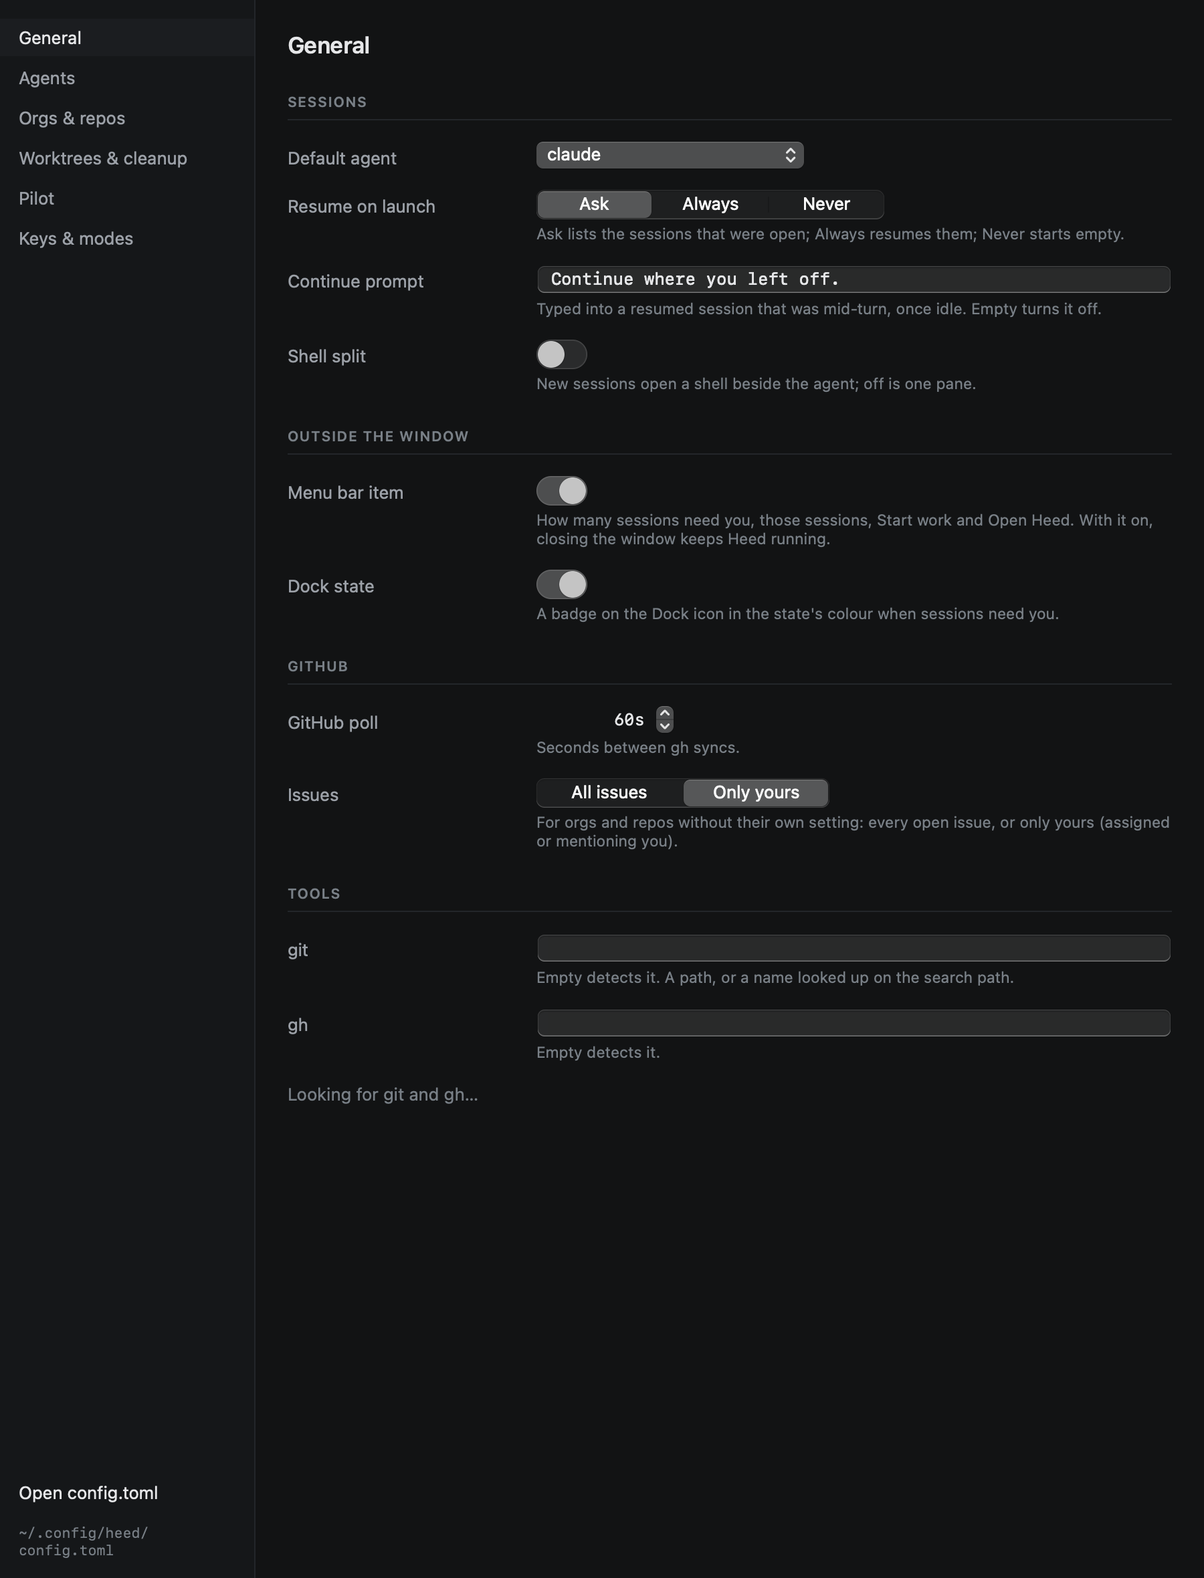
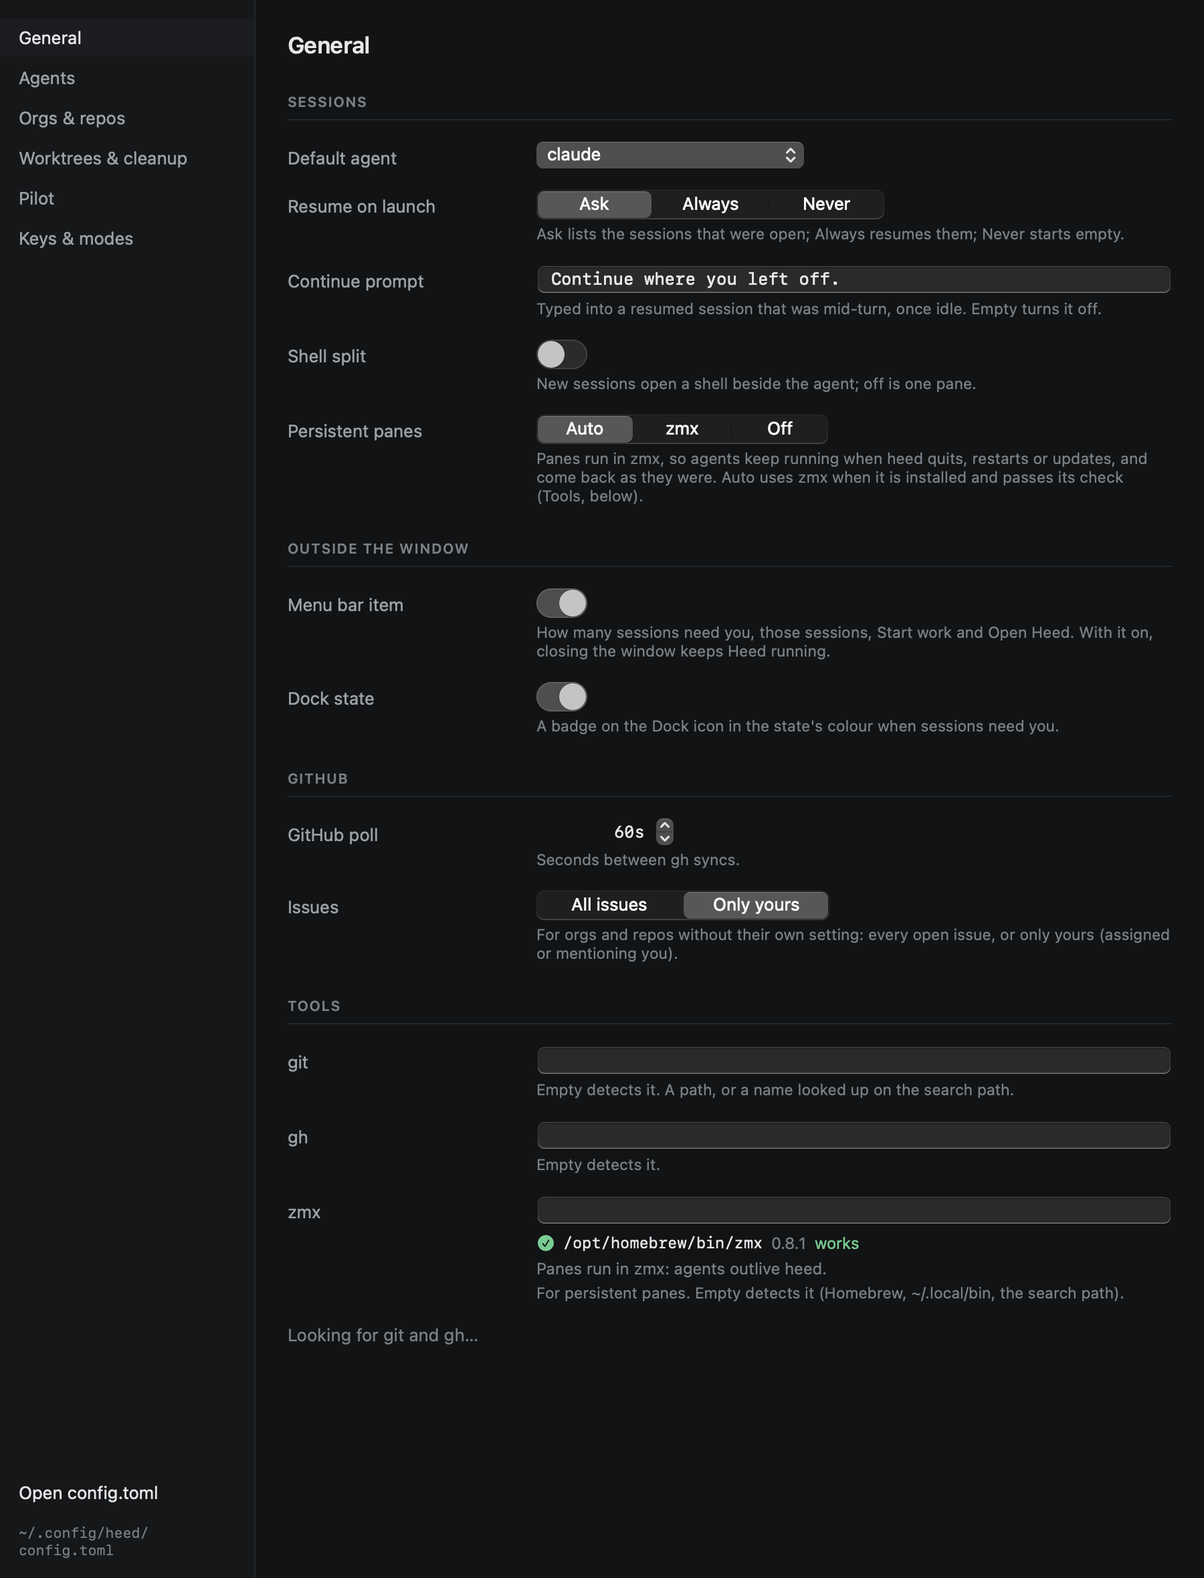
zmx is checked in Settings, and used by default when it works (#48)
**zmx check in Settings › General › Tools**, next to git and gh:
- **The path:** a new `[tools] zmx` takes a path or a name. When empty,
heed finds zmx on the search path, which includes Homebrew and
`~/.local/bin`.
- **The check:** `ZmxCheck` runs zmx the way panes use it. It runs `zmx
version`, then `zmx list --short` against heed's own socket directory,
with `ZMX_DIR` and `ZMX_NO_DETACH_KEY` set.
- **What you see:** the path, the version, and either *works* or the
failing step's first line of error. It also says whether panes run in
zmx because of it, and shows the install line when zmx is missing.

**`[sessions] persist = "auto"`, the new default:**
- `auto` uses zmx when it's installed **and** passes the check;
otherwise panes stay plain shells.
- `zmx` still insists: it uses zmx whenever it's there, and flashes the
install line when it isn't. `none` turns it off.
- `ZmxHealth.decide` maps the setting and the check to what panes do.
It's applied after each tool detection and on config changes.
- A **Persistent panes** picker (Auto / zmx / Off) is in Settings ›
General › Sessions.
- Panes already open keep going as they are; only new panes, and panes
after a restart, start in zmx.

**Docs:** the zmx page leads with install-and-it-works, then covers the
setting and the check. The config reference is regenerated, and the
General settings shot shows the check.

**Tests:**
- The decision matrix, version parsing, and the new default and its
parsing.
[…]

diff --git a/Sources/HeedCore/Sessions/Persistence.swift b/Sources/HeedCore/Sessions/Persistence.swift
@@ -2,6 +2,8 @@ import Foundation
 
 /// Whether a pane's terminal outlives heed.
 public enum PanePersistence: String, CaseIterable, Sendable, Codable {
+    /// zmx when it is installed and passes its check (`ZmxCheck`), else none: the default.
+    case auto
     /// The terminal is heed's: it ends when heed quits, and a relaunch resumes the agent from its own history.
     case none
     /// The terminal runs in a zmx session (https://zmx.sh) that heed attaches to: quitting, restarting or updating heed
@@ -11,6 +13,68 @@ public enum PanePersistence: String, CaseIterable, Sendable, Codable {
 
 /// heed's use of zmx: one zmx session per pane, named after it, in a socket directory of heed's own so they stay
 /// apart from sessions you run yourself.
+/// Whether zmx on this Mac works for heed: found, answers `zmx version`, and lists sessions in heed's socket
+/// directory. Settings shows it next to git and gh; `persist = "auto"` uses zmx only when it passed.
+public struct ZmxHealth: Equatable, Sendable {
+    public var path: String?
+    public var version: String?
+    /// Why it cannot be used; nil when it can.
+    public var problem: String?
+
+    public init(path: String?, version: String? = nil, problem: String? = nil) {
+        self.path = path
+        self.version = version
+        self.problem = problem
+    }
+
+    public var works: Bool { path != nil && problem == nil }
+
+    /// What panes do with this, for `persist`: `.zmx` or `.none`.
+    public static func decide(_ setting: PanePersistence, health: ZmxHealth?) -> PanePersistence {
+        switch setting {
+        case .none: .none
+        case .zmx: health?.path != nil ? .zmx : .none
+        case .auto: health?.works == true ? .zmx : .none
+        }
+    }
+}
+
+public enum ZmxCheck {
+    /// Runs zmx the way heed will: its version, then listing heed's own sessions.
+    public static func run(zmx: String?, socketDirectory: String = Zmx.socketDirectory()) async -> ZmxHealth {
+        guard let zmx else { return ZmxHealth(path: nil, problem: "not installed") }
+        let version = try? await ProcessRunner.run(zmx, ["version"], timeout: .seconds(5))
+        guard let version, version.succeeded else {
+            return ZmxHealth(path: zmx, problem: "zmx version failed: \(firstLine(version))")
+        }
+        try? FileManager.default.createDirectory(atPath: socketDirectory, withIntermediateDirectories: true)
+        let list = try? await ProcessRunner.run(
+            zmx, ["list", "--short"], environment: Zmx.environment(socketDirectory: socketDirectory),
+            timeout: .seconds(5)
+        )
+        let number = parseVersion(version.stdout)
+        guard let list, list.succeeded else {
+            return ZmxHealth(path: zmx, version: number, problem: "zmx list failed: \(firstLine(list))")
+        }
+        return ZmxHealth(path: zmx, version: number)
+    }
+
+    /// `zmx 0.8.1 ...` → `0.8.1`.
+    public static func parseVersion(_ output: String) -> String? {
+        output.split(whereSeparator: \.isNewline).lazy.compactMap { line -> String? in
+            let words = line.split(separator: " ")
+            return words.first == "zmx" && words.count > 1 ? String(words[1]) : nil
+        }.first
+    }
+
+    private static func firstLine(_ result: ProcessResult?) -> String {
+        guard let result else { return "did not start" }
+        let text = (result.stderr.isEmpty ? result.stdout : result.stderr)
+            .trimmingCharacters(in: .whitespacesAndNewlines)
+        return text.split(whereSeparator: \.isNewline).first.map(String.init) ?? "exit \(result.status)"
+    }
+}
+
 public enum Zmx {
     public static let prefix = "heed-"
 

diff --git a/Sources/HeedApp/Views/SettingsView.swift b/Sources/HeedApp/Views/SettingsView.swift
@@ -201,6 +201,23 @@ private struct GeneralSettings: View {
                 .labelsHidden()
                 .toggleStyle(.switch)
             }
+            Field(
+                label: "Persistent panes",
+                detail: "Panes run in zmx, so agents keep running when heed quits, restarts or updates, and come back as "
+                    + "they were. Auto uses zmx when it is installed and passes its check (Tools, below)."
+            ) {
+                Picker("", selection: Binding(
+                    get: { model.settings.persist },
+                    set: { model.setConfig(["sessions", "persist"], .string($0.rawValue)) }
+                )) {
+                    Text("Auto").tag(PanePersistence.auto)
+                    Text("zmx").tag(PanePersistence.zmx)
+                    Text("Off").tag(PanePersistence.none)
+                }
+                .pickerStyle(.segmented)
+                .labelsHidden()
+                .frame(width: 220)
+            }
             GroupLabel(title: "Outside the window")
             Field(
                 label: "Menu bar item",
@@ -253,6 +270,15 @@ private struct GeneralSettings: View {
             }
             Field(label: "gh", detail: "Empty detects it.") {
                 ConfigTextField(path: ["tools", "gh"], value: model.config.tools.gh)
+            }
+            Field(
+                label: "zmx",
+                detail: "For persistent panes. Empty detects it (Homebrew, ~/.local/bin, the search path)."
+            ) {
+                VStack(alignment: .leading, spacing: 6) {
+                    ConfigTextField(path: ["tools", "zmx"], value: model.config.tools.zmx)
+                    ZmxStatus(health: model.zmxHealth, setting: model.settings.persist)
+                }
             }
             ToolsList(report: model.tools)
         }
@@ -630,5 +656,41 @@ private struct KeySettings: View {
                 }
             }
         }
+    }
+}
+
+/// zmx's check, under its field: where it is, its version, whether it works, and what panes do because of it.
+private struct ZmxStatus: View {
+    let health: ZmxHealth?
+    let setting: PanePersistence
+
+    var body: some View {
+        let effective = ZmxHealth.decide(setting, health: health)
+        VStack(alignment: .leading, spacing: 4) {
+            if let health {
+                HStack(spacing: 6) {
+                    Image(systemName: health.works ? "checkmark.circle.fill" : "exclamationmark.triangle.fill")
+                        .foregroundStyle(health.works ? Theme.done : Theme.block)
+                    if let path = health.path {
+                        Text(Paths.abbreviate(path)).font(Theme.mono(11.5))
+                        if let version = health.version { Text(version).foregroundStyle(Theme.fg3) }
+                    }
+                    Text(health.works ? "works" : health.problem ?? "")
+                        .foregroundStyle(health.works ? Theme.done : Theme.block)
+                }
+                Text(effective == .zmx
+                    ? "Panes run in zmx: agents outlive heed."
+                    : setting == .none ? "Off: panes end when heed quits." : "Panes are plain shells until zmx works.")
+                    .foregroundStyle(Theme.fg3)
+                if health.path == nil {
+                    Text("Install: " + ZmxInstall.mac.joined(separator: "; ")).font(Theme.mono(11))
+                        .foregroundStyle(Theme.fg2)
+                        .textSelection(.enabled)
+                }
+            } else {
+                Text("Not checked yet.").foregroundStyle(Theme.fg3)
+            }
+        }
+        .font(Theme.ui(12))
     }
 }

diff --git a/Sources/HeedApp/Model/AppModel.swift b/Sources/HeedApp/Model/AppModel.swift
@@ -90,6 +90,8 @@ final class AppModel {
     private(set) var firstRun: FirstRunReport?
     /// Where git and gh were found, and the search path every command and pane runs with.
     private(set) var tools: ToolReport?
+    /// zmx on this Mac, as last checked (Settings › General shows it); nil until tools are detected.
+    private(set) var zmxHealth: ZmxHealth?
     /// Opens the Settings window (set by the view, which has the SwiftUI action).
     var openSettings: (() -> Void)?
     /// Nil for fixtures: nothing is persisted and no adapter runs.
@@ -235,6 +237,7 @@ final class AppModel {
             config.issues = Fixtures.issueRules
             config.hosts = Fixtures.hosts
             config.pilot = Fixtures.pilotRules
+            zmxHealth = ZmxHealth(path: "/opt/homebrew/bin/zmx", version: "0.8.1")
             hostStatuses = Fixtures.hostStatuses
             issueInfo = Fixtures.issueInfo
         }
@@ -604,7 +607,7 @@ final class AppModel {
         settings = decoded.work
         Remote.setTargets(Dictionary(uniqueKeysWithValues: decoded.hosts.map { ($0.key, $0.value.ssh) }))
         if !isFixture {
-            TerminalSurfaces.shared.persist = decoded.work.persist
+            TerminalSurfaces.shared.persist = ZmxHealth.decide(decoded.work.persist, health: zmxHealth)
             Updater.shared.apply(decoded.updates)
         }
         let built = decoded.keymaps()
@@ -631,14 +634,24 @@ final class AppModel {
         if pilotChanged { settlePilots() }
     }
 
+    /// `[tools] zmx` (a path, or a name on the search path), else zmx on the search path.
+    static func locateZmx(_ configured: String, searchPath: [String]) -> String? {
+        let name = configured.isEmpty ? "zmx" : (configured as NSString).expandingTildeInPath
+        if name.contains("/") { return FileManager.default.isExecutableFile(atPath: name) ? name : nil }
+        return searchPath.lazy.map { "\($0)/\(name)" }.first { FileManager.default.isExecutableFile(atPath: $0) }
+    }
+
     /// Finds git and gh (config, login shell PATH, usual places) and hands the search path to new panes.
     func detectTools(force: Bool = false) async {
         let report = await ToolLocator.shared.configure(config.tools, force: force)
         tools = report
         TerminalSurfaces.shared.searchPath = report.pathVariable
-        // zmx is yours to install: found on the search path like any tool, never shipped with heed.
-        TerminalSurfaces.shared.zmxPath = report.searchPath.lazy.map { "\($0)/zmx" }
-            .first { FileManager.default.isExecutableFile(atPath: $0) }
+        // zmx is yours to install: `[tools] zmx`, or found on the search path like any tool, never shipped with heed.
+        TerminalSurfaces.shared.zmxPath = Self.locateZmx(config.tools.zmx, searchPath: report.searchPath)
+        // Checked the way panes use it; `persist = "auto"` uses it only when it works.
+        let health = await ZmxCheck.run(zmx: TerminalSurfaces.shared.zmxPath)
+        zmxHealth = health
+        TerminalSurfaces.shared.persist = ZmxHealth.decide(settings.persist, health: health)
         if settings.persist == .zmx, TerminalSurfaces.shared.zmxPath == nil {
             flash = "persist = \"zmx\" but zmx is not installed: \(ZmxInstall.mac.joined(separator: "; ")) (panes stay plain shells until then)"
         }

diff --git a/Tests/HeedCoreTests/ZmxCheckTests.swift b/Tests/HeedCoreTests/ZmxCheckTests.swift
@@ -1,0 +1,54 @@
+import Foundation
+@testable import HeedCore
+import Testing
+
+/// `persist = "auto"` and zmx's check: what panes do, and whether zmx works the way heed uses it.
+struct ZmxCheckTests {
+    @Test func autoUsesZmxOnlyWhenItWorks() {
+        let works = ZmxHealth(path: "/opt/homebrew/bin/zmx", version: "0.8.1")
+        let broken = ZmxHealth(path: "/opt/homebrew/bin/zmx", problem: "zmx list failed: boom")
+        let missing = ZmxHealth(path: nil, problem: "not installed")
+        #expect(ZmxHealth.decide(.auto, health: works) == .zmx)
+        #expect(ZmxHealth.decide(.auto, health: broken) == .none)
+        #expect(ZmxHealth.decide(.auto, health: missing) == .none)
+        #expect(ZmxHealth.decide(.auto, health: nil) == .none)
+        // Asked for: zmx whenever it is there; never when off.
+        #expect(ZmxHealth.decide(.zmx, health: broken) == .zmx)
+        #expect(ZmxHealth.decide(.zmx, health: missing) == .none)
+        #expect(ZmxHealth.decide(.none, health: works) == .none)
+        #expect(ZmxCheck.parseVersion("zmx 0.8.1 (abc)\n") == "0.8.1")
+        #expect(ZmxCheck.parseVersion("something else") == nil)
+    }
+
+    @Test func autoIsTheDefault() {
+        #expect(HeedConfig.default.work.persist == .auto)
+        #expect(ConfigLoader.decode("[sessions]\npersist = \"zmx\"").config?.work.persist == .zmx)
+        #expect(ConfigLoader.decode("[sessions]\npersist = \"often\"").problems.first?
+            .message == "expected auto, zmx or none")
+        #expect(ConfigLoader.decode("[tools]\nzmx = \"~/bin/zmx\"").config?.tools.zmx == "~/bin/zmx")
+    }
+
+    @Test func theCheckRunsZmxTheWayPanesDo() async throws {
+        let dir = FileManager.default.temporaryDirectory.appendingPathComponent("heed-zmx-\(UUID().uuidString)").path
+        try FileManager.default.createDirectory(atPath: dir, withIntermediateDirectories: true)
+        defer { try? FileManager.default.removeItem(atPath: dir) }
+        func script(_ name: String, list: String) throws -> String {
+            let path = "\(dir)/\(name)"
+            try """
+            #!/bin/sh
+            case "$1" in
+              version) echo "zmx 0.8.1"; echo "ghostty-vt 1.2" ;;
+              list) [ -n "$ZMX_DIR" ] && [ "$ZMX_NO_DETACH_KEY" = 1 ] || exit 3; \(list) ;;
+            esac
+            """.write(toFile: path, atomically: true, encoding: .utf8)
+            try FileManager.default.setAttributes([.posixPermissions: 0o755], ofItemAtPath: path)
+            return path
+        }
+        let good = try await ZmxCheck.run(zmx: script("good", list: "exit 0"), socketDirectory: dir + "/sock")
+        #expect(good == ZmxHealth(path: dir + "/good", version: "0.8.1"))
+        #expect(FileManager.default.fileExists(atPath: dir + "/sock"))
+        let bad = try await ZmxCheck.run(zmx: script("bad", list: "echo nope >&2; exit 1"), socketDirectory: dir + "/s")
+        #expect(!bad.works && bad.problem == "zmx list failed: nope" && bad.version == "0.8.1")
+        #expect(await ZmxCheck.run(zmx: nil) == ZmxHealth(path: nil, problem: "not installed"))
+    }
+}

diff --git a/Sources/HeedCore/Config/HeedConfig.swift b/Sources/HeedCore/Config/HeedConfig.swift
@@ -213,7 +213,7 @@ public enum ConfigLoader {
             if let persist = PanePersistence(rawValue: text.lowercased()) {
                 config.work.persist = persist
             } else {
-                problems.append(ConfigProblem(path: "sessions.persist", message: "expected none or zmx"))
+                problems.append(ConfigProblem(path: "sessions.persist", message: "expected auto, zmx or none"))
             }
         }
         // [cleanup]
@@ -331,6 +331,7 @@ public enum ConfigLoader {
         // [tools]
         if let git = string(["tools", "git"]) { config.tools.git = git }
         if let gh = string(["tools", "gh"]) { config.tools.gh = gh }
+        if let zmx = string(["tools", "zmx"]) { config.tools.zmx = zmx }
         if let path = strings(["tools", "path"]) { config.tools.path = path }
         func visibility(_ path: [String]) -> IssueVisibility? {
             guard let text = string(path) else { return nil }
@@ -517,8 +518,9 @@ public enum ConfigLoader {
     # Open a shell split beside the agent in new sessions (Start work can still toggle it per session).
     shell_split = false
     # Keep every pane's terminal alive in a zmx session, so agents keep running when heed quits, restarts or updates,
-    # and come back as they were: none (panes end with heed) or zmx.
-    persist = "none"
+    # and come back as they were: auto (zmx when it is installed and works; Settings > General shows its check),
+    # zmx, or none (panes end with heed).
+    persist = "auto"
 
     [cleanup]
     # Automatic cleanup, off by default. When on, worktrees with no activity (agent output, keystrokes, commits, PR

diff --git a/Tests/HeedCoreTests/ZmxTests.swift b/Tests/HeedCoreTests/ZmxTests.swift
@@ -26,8 +26,9 @@ struct ZmxTests {
     @Test func persistIsReadFromSessions() throws {
         let (on, _) = ConfigLoader.decode("[sessions]\npersist = \"zmx\"")
         #expect(try #require(on).work.persist == .zmx)
-        let (off, _) = ConfigLoader.decode("")
-        #expect(try #require(off).work.persist == PanePersistence.none)
+        // Unset: auto (zmx when it works).
+        let (unset, _) = ConfigLoader.decode("")
+        #expect(try #require(unset).work.persist == .auto)
         let (_, problems) = ConfigLoader.decode("[sessions]\npersist = \"tmux\"")
         #expect(problems.map(\.path) == ["sessions.persist"])
     }

diff --git a/Sources/HeedCore/StartWork/StartWork.swift b/Sources/HeedCore/StartWork/StartWork.swift
@@ -21,7 +21,7 @@ public struct WorkSettings: Hashable, Sendable, Codable {
     /// New sessions open a shell split beside the agent (`[sessions] shell_split`); off means one pane.
     public var shellSplit = false
     /// Whether panes outlive heed: `zmx` keeps each pane's terminal in a zmx session that heed reattaches to.
-    public var persist: PanePersistence = .none
+    public var persist: PanePersistence = .auto
 
     public init(
         worktreeRoot: String = "~/code/wt", repoRoots: [String] = ["~/Projects", "~/code"],

diff --git a/Sources/HeedCore/Adapters/Tools.swift b/Sources/HeedCore/Adapters/Tools.swift
@@ -5,6 +5,8 @@ public struct ToolSettings: Equatable, Sendable {
     /// A path (`/opt/homebrew/bin/git`, `~/bin/git`) or a name looked up on the search path.
     public var git = ""
     public var gh = ""
+    /// zmx, for persistent panes; empty: found on the search path.
+    public var zmx = ""
     /// Directories searched before anything detected, for git, gh and agent commands alike.
     public var path: [String] = []
 

diff --git a/docs/sessions/zmx.md b/docs/sessions/zmx.md
@@ -4,11 +4,10 @@ description: Keep agents running when Heed quits, restarts or updates, with zmx.
 
 # Agents that outlive Heed
 
-By default a pane's terminal belongs to Heed: quitting Heed stops the agents in it, and the next launch
-[resumes](resume.md) them from their own history. With `persist = "zmx"`, every pane runs in a
-[zmx](https://zmx.sh) session instead, and Heed attaches to it. Quitting, restarting or updating Heed leaves the
-agents running, mid-turn if they were, and the next launch reattaches: same screen, same scrollback, nothing typed
-again.
+Install [zmx](https://zmx.sh) and every pane runs in a zmx session that Heed attaches to. Quitting, restarting or
+updating Heed leaves the agents running, mid-turn if they were, and the next launch reattaches: same screen, same
+scrollback, nothing typed again. Without zmx, a pane's terminal belongs to Heed: quitting stops its agent, and the
+next launch [resumes](resume.md) it from its own history.
 
 zmx is yours to install; Heed does not ship it. On this Mac:
 
@@ -16,21 +15,26 @@ zmx is yours to install; Heed does not ship it. On this Mac:
 brew install neurosnap/tap/zmx
 ```
 
-(or any way [zmx.sh](https://zmx.sh) describes). Then:
+(or any way [zmx.sh](https://zmx.sh) describes). Heed picks it up on its own:
 
 ```toml
 [sessions]
-persist = "zmx"    # none (the default) or zmx
+persist = "auto"   # the default: zmx when it is installed and works; zmx to insist, none to turn it off
+
+[tools]
+zmx = ""           # empty: found like git and gh (Homebrew, ~/.local/bin, your PATH); or a path
 ```
 
-Heed finds zmx on your PATH like `git` and `gh` (`heed tools` shows where). With `persist = "zmx"` and no zmx installed,
-panes stay plain shells and Heed says how to install it.
+**Settings › General › Tools** shows zmx's check, next to git and gh: where it found zmx, its version, and whether it
+works the way Heed uses it (`zmx version`, then listing Heed's own sessions). It also says whether panes run in zmx
+because of it. With `auto`, a zmx that is missing or fails its check leaves panes as plain shells. With `zmx`, Heed
+uses it whenever it is there, and says how to install it when it is not.
 
 The setting applies to panes opened from then on; panes already open keep going as they are until they close.
 
 ## What changes
 
-| | `none` | `zmx` |
+| | without zmx (`none`) | with zmx |
 |---|---|---|
 | Quit Heed with agents working | Asks first; the agents stop | Quits; the agents keep going |
 | Next launch | Resume dialog: each agent restarts from its history | Panes reattach to the running agents; only ones that are gone (after a reboot) resume |

diff --git a/docs/configuration/reference.md b/docs/configuration/reference.md
@@ -44,8 +44,9 @@ continue_prompt = "Continue where you left off."
 # Open a shell split beside the agent in new sessions (Start work can still toggle it per session).
 shell_split = false
 # Keep every pane's terminal alive in a zmx session, so agents keep running when heed quits, restarts or updates,
-# and come back as they were: none (panes end with heed) or zmx.
-persist = "none"
+# and come back as they were: auto (zmx when it is installed and works; Settings > General shows its check),
+# zmx, or none (panes end with heed).
+persist = "auto"
 
 [cleanup]
 # Automatic cleanup, off by default. When on, worktrees with no activity (agent output, keystrokes, commits, PR
